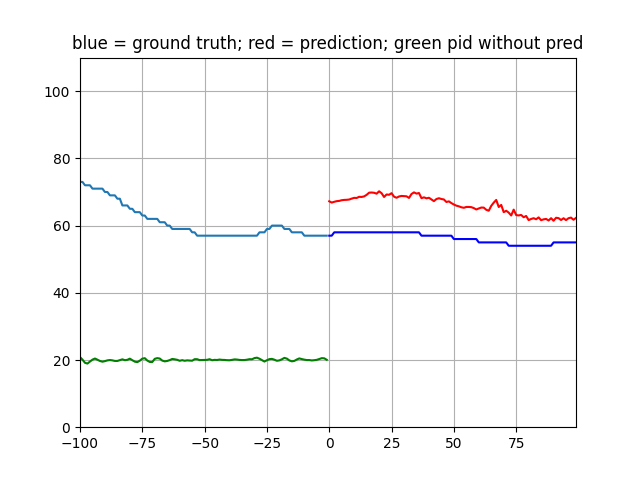
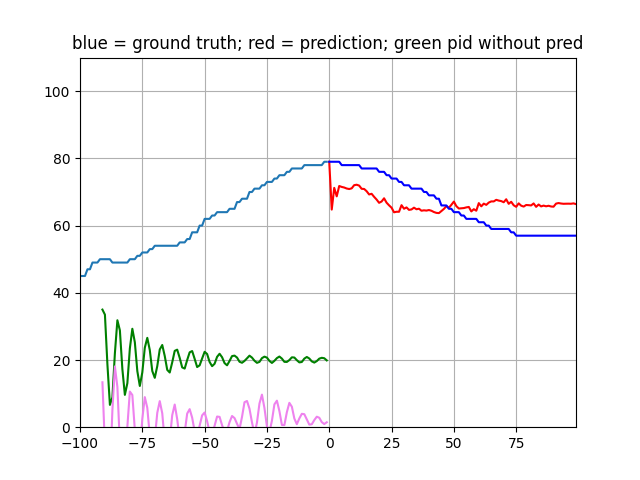
tested first predictive control, pid doesnt seem to cut it, think about end to end approach or calculate the heat to get rid of

diff --git a/mimo_testfile.py b/mimo_testfile.py
@@ -41,15 +41,18 @@ SKIP = 2500
 plot_bars = False
 
 #heat control
-pid = PID(.2,.7,0)
-heat = 20
+CONTROL_CONSTANTS = [.1,1,0]
+pres_pid = PID(*CONTROL_CONSTANTS)
+fut_pid = PID(*CONTROL_CONSTANTS)
+fut_heat = 20
+pres_heat = 20
 set_temp = 20
-heat_queue = deque([],LOOKFORWARD)
+pres_heat_queue = deque([],LOOKFORWARD)
+fut_heat_queue = deque([],LOOKFORWARD)
 
 for it, _ in enumerate(full_logs, LOOKBACK+SKIP):
     logs_to_look_at = full_logs[-LOOKBACK+it:it,:].unsqueeze(0)
-    plt.plot(range(-100,0),logs_to_look_at[0,:,0])
-    for i in range(LOOKFORWARD):
+    for i in range(LOOKFORWARD-1):
         data_pred = model.forward(logs_to_look_at)
         logs_to_look_at = torch.cat(
             [logs_to_look_at[:,1:,:],
@@ -59,23 +62,35 @@ for it, _ in enumerate(full_logs, LOOKBACK+SKIP):
     
     gt = full_logs[it:it+LOOKFORWARD,0].detach().numpy()
     pred = logs_to_look_at[0,-LOOKFORWARD-2:,0].detach().numpy()
-    # control on the most recent point    
-    cont_inp = pid.step(set_temp,heat)
-    if abs(cont_inp) > 1000:
-        print("prevent overflow")
-        exit()
-    heat += (logs_to_look_at[0,0,0].detach().numpy()*0.3)- cont_inp
-    heat_queue.append(heat)
+    
+    # control on the most recent point
+    # future control: seems to be wrong approach, tries to get rid of heat
+    # before it appears. but get rid of heat WHEN it appears
+    # -> calculate heat and then the neccessary control input
+    # e.g. how much throttle is expected -> how much heat -> how much cooling
+    # at certain time step.
+    pres_cont_inp = pres_pid.step(set_temp,pres_heat)
+    exp_heat = fut_heat+(sum(pred)/len(pred))*0.3
+    fut_cont_inp = fut_pid.step(set_temp,(exp_heat*0.9)+(fut_heat*0.1))
 
-    plt.plot(pred,"red")
-    plt.plot(gt,"blue")
+    pres_heat += (logs_to_look_at[0,0,0].detach().numpy()*0.3) - pres_cont_inp
+    fut_heat += (logs_to_look_at[0,0,0].detach().numpy()*0.3) - fut_cont_inp
+    if abs(fut_cont_inp) > 1000:
+        print("future control input over 1000")
+        exit()
+    pres_heat_queue.append(pres_heat)
+    fut_heat_queue.append(fut_heat)
 
     
-    plt.plot(range(-len(heat_queue),0),heat_queue,"green")
-
+    plt.grid(True)
+    plt.plot(range(-len(pres_heat_queue),0),pres_heat_queue,"green")
+    plt.plot(range(-len(fut_heat_queue),0),fut_heat_queue,"violet")
+    plt.savefig("pid_only.png")
+    plt.plot(range(-100,0),full_logs[-LOOKBACK+it:it,0])
+    plt.plot(pred,"red")
+    plt.plot(gt,"blue")
     plt.axis([-LOOKBACK,LOOKFORWARD-1,0,110])
     plt.title("blue = ground truth; red = prediction; green pid without pred")
-    plt.grid(True)
     plt.savefig("pidtest.png")
     plt.clf()
     print(it, end = "\r")
